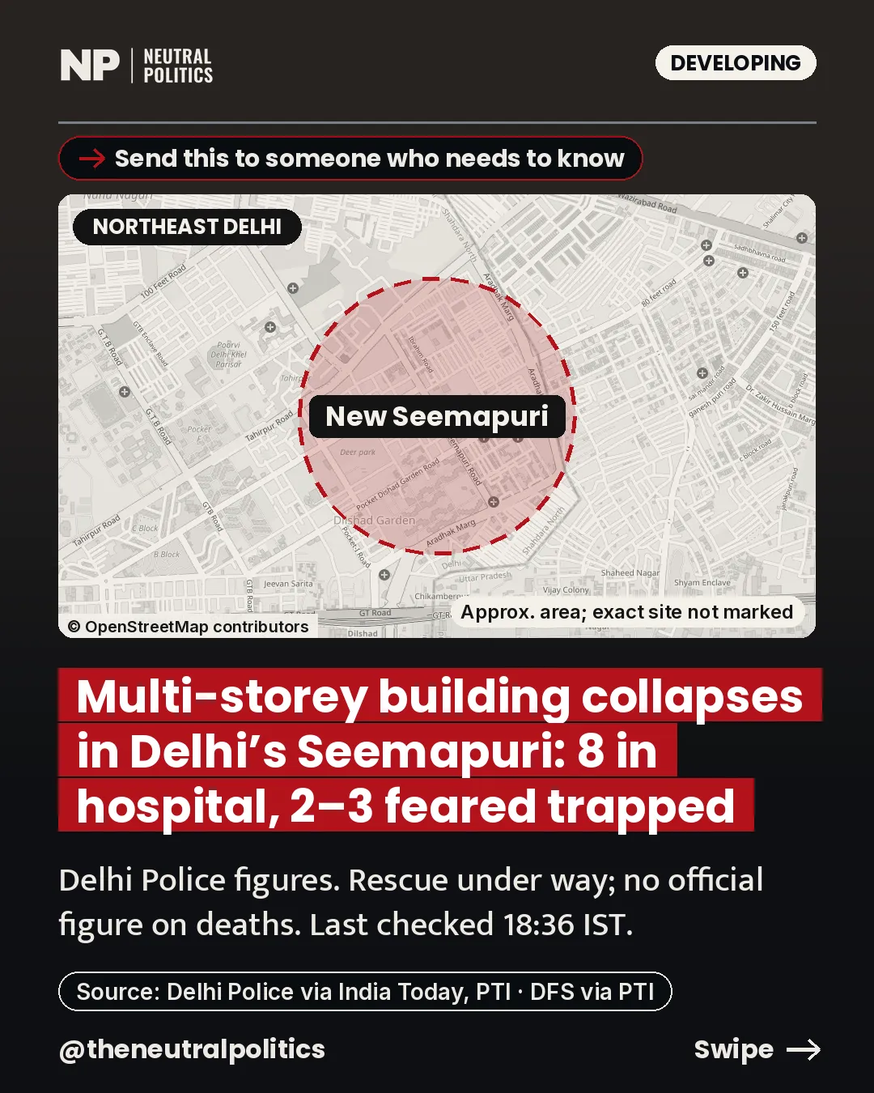
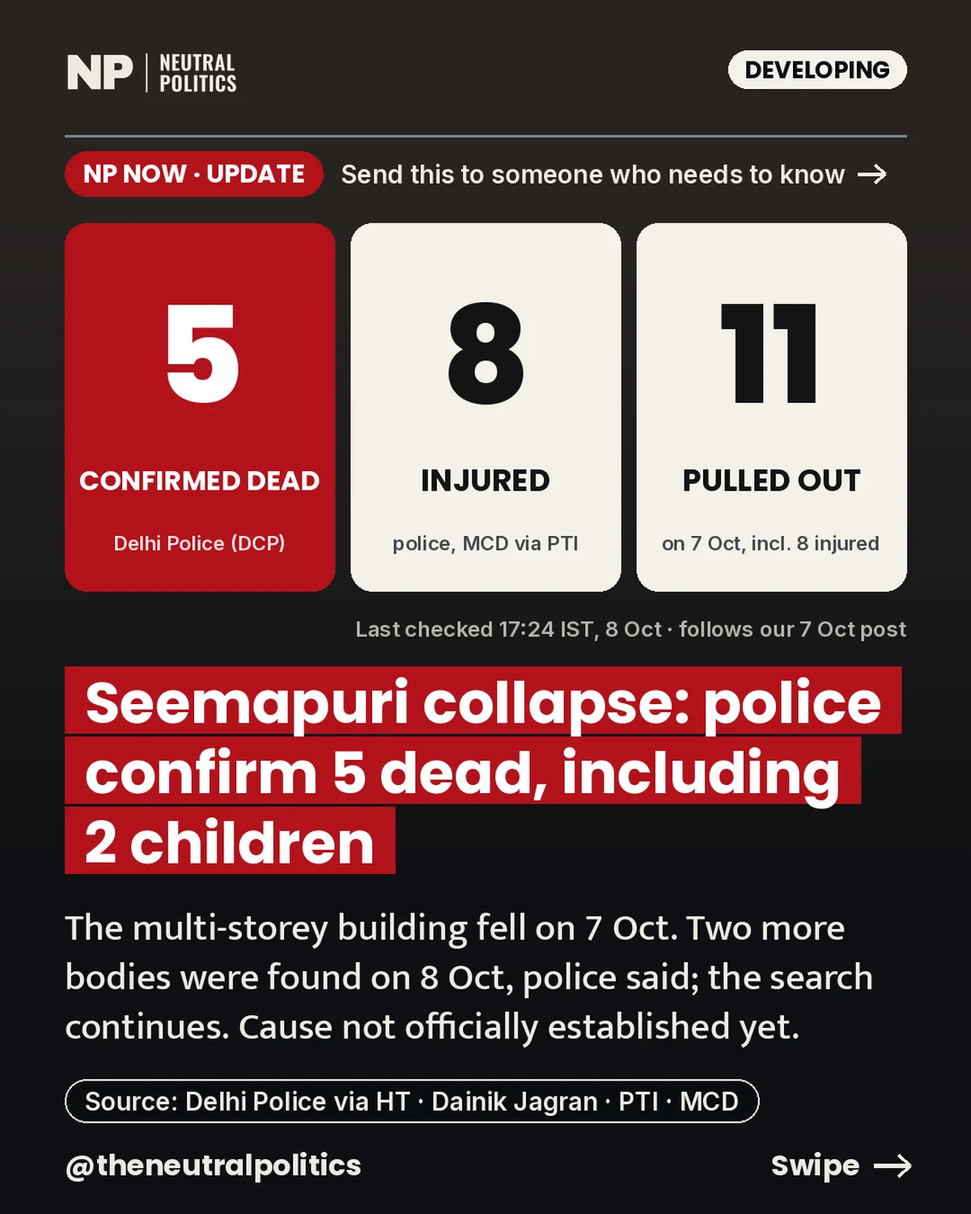
Publish the GST Council note and update the Seemapuri draft.
The 57th meeting story is the new lead. The collapse update stays unpublished, with the new toll attributed to police.

diff --git a/content/news/2026/10/delhi-seemapuri-building-collapse.hi.md b/content/news/2026/10/delhi-seemapuri-building-collapse.hi.md
@@ -1,48 +1,46 @@
 ---
-title: "दिल्ली की सीमापुरी में बहुमंजिला इमारत गिरी: कम से कम 8 अस्पताल में, 2–3 के फँसे होने की आशंका, दिल्ली पुलिस"
-standfirst: "उत्तर-पूर्व दिल्ली की नई सीमापुरी में इदगाह मछली मंडी के पास की इमारत बुधवार दोपहर गिरी। बचाव चल रहा है। मौतों का कोई आधिकारिक आँकड़ा नहीं है।"
+title: "सीमापुरी में इमारत गिरी: पुलिस ने 5 मौतें पक्की कीं, इनमें 2 बच्चे; 8 घायल"
+standfirst: "नई सीमापुरी में इमारत गिरने से मरने वालों की संख्या पाँच हो गई है। 8 अक्टूबर को दो और शव मिले, 60 और 35 साल की महिलाएँ, दिल्ली पुलिस ने कहा। आठ लोग घायल हुए। तलाश जारी है और कारण आधिकारिक रूप से तय नहीं हुआ है।"
 key_facts:
-  - "बुधवार, 7 अक्टूबर 2026 की दोपहर उत्तर-पूर्व दिल्ली की नई सीमापुरी में इदगाह मछली मंडी के पास एक बहुमंजिला आवासीय इमारत गिरी। मंजिलों की संख्या विवादित है, इसलिए यह नोट कोई संख्या नहीं देता।"
-  - "कम से कम आठ लोग अस्पताल में भर्ती हैं: छह पुरुष, एक महिला और एक तीन साल का बच्चा, गुरु तेग बहादुर अस्पताल में। दिल्ली पुलिस के डीसीपी आर.पी. मीना ने यह कहा, इंडिया टुडे के अनुसार शाम 6:29 बजे IST।"
-  - "दो से तीन लोगों के अब भी फँसे होने का संदेह है। डीसीपी ने कहा, \"They are talking... rescue operation is underway,\" पीटीआई के अनुसार करीब शाम 5:40 बजे IST। कुछ लोगों को निकाला गया है। बचाए गए लोगों की आधिकारिक संख्या नहीं है, और किसी मौत का आधिकारिक आँकड़ा नहीं है।"
-  - "दिल्ली फायर सर्विस को कॉल करीब 3:15 बजे थी, इंडिया टुडे के अनुसार फायर सर्विस का हवाला देते हुए, या करीब 3:30 बजे, पीटीआई, एनडीटीवी और टाइम्स ऑफ़ इंडिया के अनुसार।"
-  - "अधिकारियों ने पीटीआई से कहा कि आगे का हिस्सा गिरा और मलबा दो से तीन बगल के मकानों से टकराया। दिल्ली फायर सर्विस, दिल्ली पुलिस, नागरिक अधिकारी और सिविल डिफेंस बचाव कर रहे हैं। खुदाई मशीनें मलबा हटा रही हैं।"
-  - "दिल्ली ट्रैफ़िक पुलिस ने कहा कि सीमापुरी गोल चक्कर, डीएलएफ भोपुरा और आसपास की सड़कों पर यातायात प्रभावित है, और लोगों से क्षेत्र से बचने तथा साइट के पास रुकने, पार्क करने या जमा होने से बचने को कहा।"
-  - "अधिकारियों ने पीटीआई के जरिए कहा कि कारण जाँच के बाद तय होगा। केवल संदर्भ: 6 सितंबर 2026 को सत्य निकेतन में गिरी इमारत में सात लोगों की मौत हुई, दिल्ली फायर सर्विस और पीटीआई के अनुसार, जैसा द न्यू इंडियन एक्सप्रेस ने रिपोर्ट किया।"
+  - "अपडेट, आखिरी जाँच 8 अक्टूबर 2026 को शाम 5:24 बजे IST। डीसीपी (शाहदरा) राजेंद्र प्रसाद मीना ने हिंदुस्तान टाइम्स को रिकॉर्ड पर बताया कि संख्या पाँच है। दो और शव, इमारत में रहने वाली 60 और 35 साल की महिलाओं के, गुरुवार को मिले। उनकी पहचान जारी नहीं हुई। टाइम्स ऑफ़ इंडिया, पीटीआई इनपुट के साथ, और दैनिक जागरण भी अधिकारियों का हवाला देकर पाँच मौतें रिपोर्ट करते हैं।"
+  - "पहले की तीन मौतें दो बच्चों की थीं, करीब 12 साल की एक लड़की और एक नन्हा बच्चा, और एक 21 साल की महिला की जो चार महीने की गर्भवती थीं। डीसीपी ने यह खाता हिंदुस्तान टाइम्स को दिया, और अधिकारियों ने पीटीआई को। किसी का नाम नहीं है।"
+  - "आठ लोग घायल हुए और उन्हें ताहिरपुर के राजीव गांधी सुपर स्पेशलिटी अस्पताल ले जाया गया, पुलिस और एमसीडी, पीटीआई के जरिए। शाम 5:24 बजे IST तक घायलों के इस आँकड़े में आधिकारिक बदलाव नहीं था।"
+  - "7 अक्टूबर को मलबे से 11 लोगों को निकाला गया, उनमें आठ घायल भी, पुलिस और एमसीडी, पीटीआई के जरिए, और द हिंदू। बचाव की कोई नई आधिकारिक संख्या नहीं है।"
+  - "तलाश जारी है। डीसीपी ने हिंदुस्तान टाइम्स को बताया कि मलबा हटाया जा रहा है, यह देखने के लिए कि और लोग फँसे हैं या नहीं। अभी भी फँसे किसी की आधिकारिक संख्या नहीं है।"
+  - "कारण आधिकारिक रूप से तय नहीं हुआ है। इमारत को केवल बहुमंजिला कहा गया है। केवल संदर्भ: 6 सितंबर 2026 को सत्य निकेतन में गिरी इमारत में सात लोगों की मौत हुई, दिल्ली फायर सर्विस और पीटीआई, द न्यू इंडियन एक्सप्रेस के जरिए, और द हिंदू।"
 sides:
-  - label: "अधिकारियों ने क्या कहा"
-    text: "डीसीपी आर.पी. मीना, इंडिया टुडे के जरिए शाम 6:29 बजे: जीटीबी में कम से कम आठ भर्ती, छह पुरुष, एक महिला और एक तीन साल का बच्चा। पीटीआई के जरिए करीब शाम 5:40 बजे: दो से तीन के फँसे होने का संदेह, और कुछ लोग पहले ही निकाले जा चुके। मौत का आधिकारिक आँकड़ा नहीं।"
-  - label: "जो तय नहीं है"
-    text: "मंजिलों की संख्या, फायर सर्विस की कॉल का समय, कम से कम पाँच घायल की पहले की रिपोर्ट, और अस्पताल का पहले का नाम। कारण जाँच का विषय है। यह नोट न कारण बताता है, न दोष।"
+  - label: "अधिकारियों ने क्या पक्का किया है"
+    text: "पाँच मौतें, डीसीपी शाहदरा राजेंद्र प्रसाद मीना के रिकॉर्ड पर बयान से, हिंदुस्तान टाइम्स के जरिए, और अधिकारियों से, टाइम्स ऑफ़ इंडिया पीटीआई के साथ और दैनिक जागरण के जरिए। ताहिरपुर के राजीव गांधी सुपर स्पेशलिटी अस्पताल में आठ घायल। 7 अक्टूबर को 11 निकाले गए। तलाश जारी है। फँसे लोगों की आधिकारिक संख्या नहीं। आधिकारिक कारण नहीं।"
+  - label: "यह नोट क्या इस्तेमाल नहीं करता"
+    text: "सुबह की चार मौतों का आँकड़ा। एक अंग्रेज़ी रिपोर्ट का 11 घायल का आँकड़ा। स्थानीय खाते कि लोग अब भी फँसे हैं। कोई कारण, कोई दोष, और मंजिलों की कोई संख्या।"
 not_confirmed:
-  - "मौत का आधिकारिक आँकड़ा। दिल्ली फायर सर्विस, दिल्ली पुलिस, एनडीआरएफ या जिला प्रशासन ने कोई नहीं दिया है।"
-  - "बचाए गए लोगों की आधिकारिक संख्या। पुलिस कहती है कि कुछ लोगों को निकाला गया। उन्होंने संख्या नहीं दी।"
-  - "मंजिलों की संख्या। माध्यम चार और पाँच मंजिल उद्धृत करते हैं, और एक सुर्खी व मुख्य पाठ अलग हैं। यह नोट बहुमंजिला कहता है।"
-  - "कारण। अधिकारी कहते हैं कि यह जाँच के बाद तय होगा। यह नोट कारण नहीं बताता और दोष नहीं लगाता।"
-  - "कि हर व्यक्ति का इलाज किस अस्पताल में हुआ। बाद वाला डीसीपी खाता, इंडिया टुडे के जरिए, जीटीबी अस्पताल का नाम लेता है। आईएएनएस की पहले की रिपोर्ट ने राजीव गांधी अस्पताल का नाम लिया।"
+  - "8 अक्टूबर को मिली 60 और 35 साल की दो महिलाओं की पहचान। वह जारी नहीं हुई है।"
+  - "अभी भी फँसे किसी की आधिकारिक संख्या। डीसीपी ने कहा तलाश जारी है और मलबा हटाया जा रहा है। 7 अक्टूबर शाम की यह पंक्ति कि दो से तीन के फँसे होने का संदेह था, मौजूदा आधिकारिक संख्या नहीं है। स्थानीय खाते इस्तेमाल नहीं हैं।"
+  - "कारण। अधिकारी कहते हैं कि वह तय नहीं हुआ। यह नोट कारण नहीं बताता और दोष नहीं लगाता।"
+  - "मंजिलों की संख्या। रिपोर्टें अलग हैं। यह नोट बहुमंजिला कहता है।"
+  - "7 अक्टूबर को हर व्यक्ति का इलाज किस अस्पताल में हुआ। यह अपडेट ताहिरपुर के राजीव गांधी सुपर स्पेशलिटी अस्पताल का नाम लेता है, पुलिस और एमसीडी, पीटीआई के जरिए। उस शाम इंडिया टुडे ने डीसीपी को गुरु तेग बहादुर अस्पताल पर उद्धृत किया। आईएएनएस की पहले की रिपोर्ट ने राजीव गांधी अस्पताल का नाम लिया।"
+  - "सुबह की चार मौतों का आँकड़ा, एएनआई, बिज़नेस स्टैंडर्ड और ज़ी की रिपोर्टों में। यह नोट पाँच लेता है, डीसीपी के रिकॉर्ड से। एक अंग्रेज़ी रिपोर्ट का 11 घायल का आँकड़ा इस्तेमाल नहीं है। पुलिस और एमसीडी का आँकड़ा आठ घायल है, 11 निकाले गए लोगों में।"
 translation:
   engine: "cloud-agent"
   status: "machine"
 ---
 
-बुधवार दोपहर, 7 अक्टूबर 2026 को उत्तर-पूर्व दिल्ली की नई सीमापुरी में इदगाह मछली मंडी के पास एक बहुमंजिला आवासीय इमारत गिरी। यह नोट एनपी नाउ है। मुहर विकसित हो रही है। आखिरी जाँच शाम 6:36 बजे IST हुई। यहाँ कोई आँकड़ा तभी है जब स्रोत दिल्ली फायर सर्विस, दिल्ली पुलिस, एनडीआरएफ या जिला प्रशासन हो, और हर आँकड़ा आरोपित है। किसी मौत का आधिकारिक आँकड़ा नहीं है।
+अपडेट, गुरुवार 8 अक्टूबर 2026 को शाम 5:24 बजे IST। पुलिस ने उत्तर-पूर्व दिल्ली की नई सीमापुरी में इदगाह मछली मंडी के पास एक बहुमंजिला इमारत गिरने में पाँच मौतें पक्की की हैं। उप पुलिस आयुक्त (शाहदरा) राजेंद्र प्रसाद मीना ने यह हिंदुस्तान टाइम्स को रिकॉर्ड पर कहा। दो और शव, इमारत में रहने वाली 60 और 35 साल की महिलाओं के, गुरुवार को मिले। उनकी पहचान जारी नहीं हुई है। टाइम्स ऑफ़ इंडिया, पीटीआई इनपुट के साथ, और दैनिक जागरण भी अधिकारियों का हवाला देकर पाँच मौतें रिपोर्ट करते हैं। यह नोट एनपी नाउ है। मुहर विकसित हो रही है। आखिरी जाँच शाम 5:24 बजे IST हुई। यह अपडेट शाम 5:20 बजे IST पोस्ट हुआ।
 
-दिल्ली पुलिस के डीसीपी आर.पी. मीना ने कहा कि कम से कम आठ लोग अस्पताल में भर्ती हैं, इंडिया टुडे के अनुसार शाम 6:29 बजे IST। वे आठ छह पुरुष, एक महिला और एक तीन साल का बच्चा हैं, गुरु तेग बहादुर अस्पताल में, जिसे जीटीबी अस्पताल भी कहा जाता है। उसी दोपहर इससे पहले पीटीआई ने शाम 5:45 बजे और टाइम्स ऑफ़ इंडिया ने शाम 6:27 बजे कम से कम पाँच घायल रिपोर्ट किए। दोनों खाते इस नोट में रहते हैं। बाद वाला पुलिस आँकड़ा, इंडिया टुडे के जरिए, अस्पताल में कम से कम आठ लोग है।
+पाँच में दो बच्चे हैं, करीब 12 साल की एक लड़की और एक नन्हा बच्चा, एक 21 साल की महिला जो चार महीने की गर्भवती थीं, और गुरुवार को मिली दो महिलाएँ। डीसीपी ने यह खाता हिंदुस्तान टाइम्स को दिया, और अधिकारियों ने पीटीआई को। यह नोट किसी का नाम नहीं लेता।
 
-डीसीपी ने कहा कि कुछ लोगों को निकालकर अस्पताल भेजा गया है, और दो से तीन लोगों के मलबे में अब भी फँसे होने का संदेह है। उन्होंने कहा: "They are talking... rescue operation is underway," पीटीआई के अनुसार करीब शाम 5:40 बजे IST। यानी वे बात कर रहे हैं, और बचाव अभियान चल रहा है। कितनों को निकाला गया, इसकी आधिकारिक संख्या नहीं है। किसी मौत का आधिकारिक आँकड़ा नहीं है। रिपोर्टों और स्थानीय खातों में बचाए गए या फँसे लोगों के दूसरे आँकड़े आए हैं। अधिकारियों ने उनकी पुष्टि नहीं की, इसलिए वे यहाँ इस्तेमाल नहीं हैं।
+आठ लोग घायल हुए और उन्हें ताहिरपुर के राजीव गांधी सुपर स्पेशलिटी अस्पताल ले जाया गया। पुलिस और दिल्ली नगर निगम ने कहा कि 7 अक्टूबर को मलबे से 11 लोगों को निकाला गया, और आठ घायल उन्हीं में थे। पीटीआई, जिसे द न्यू इंडियन एक्सप्रेस ने छापा, और द हिंदू यह रिपोर्ट करते हैं। शाम 5:24 बजे IST तक बचाव की कोई नई आधिकारिक संख्या नहीं थी। एक अंग्रेज़ी रिपोर्ट का 11 घायल का आँकड़ा इस्तेमाल नहीं है। यह नोट आठ घायल लेता है, और 7 अक्टूबर को निकाले गए 11 लोग।
 
-दिल्ली फायर सर्विस की कॉल का समय तय नहीं है। इंडिया टुडे, फायर सर्विस का हवाला देते हुए, इसे करीब 3:15 बजे रखता है। पीटीआई, एनडीटीवी और टाइम्स ऑफ़ इंडिया इसे करीब 3:30 बजे रखते हैं। पीटीआई द्वारा उद्धृत अधिकारियों ने कहा कि इमारत का आगे का हिस्सा गिरा और मलबा दो से तीन बगल के मकानों से टकराया। खुदाई मशीनें मलबा हटा रही हैं। दिल्ली फायर सर्विस, दिल्ली पुलिस, नागरिक अधिकारी और सिविल डिफेंस कर्मी तलाश कर रहे हैं।
+तलाश जारी है। डीसीपी ने हिंदुस्तान टाइम्स को बताया कि टीमें मलबा हटा रही हैं, यह देखने के लिए कि और लोग फँसे हैं या नहीं। अभी भी फँसे किसी की आधिकारिक संख्या नहीं है।
 
-मंजिलों की संख्या तय नहीं है, इसलिए यह नोट केवल बहुमंजिला कहता है। डीसीपी को पीटीआई और फ़र्स्टपोस्ट ने चार मंजिल कहते उद्धृत किया है, और टाइम्स ऑफ़ इंडिया ने शाम 6:27 बजे पाँच मंजिल। हिंदुस्तान टाइम्स और एनडीटीवी पाँच कहते हैं। इंडिया टुडे की एक सुर्खी तीन कहती है और उस रिपोर्ट का मुख्य पाठ चार। यह नोट कोई संख्या नहीं चुनता।
+कारण आधिकारिक रूप से तय नहीं हुआ है। टाइम्स ऑफ़ इंडिया, पीटीआई इनपुट के साथ, कहता है कि सटीक कारण अभी पता लगाया जाना है। यह नोट कारण नहीं बताता और दोष नहीं लगाता। यह मंजिलों की संख्या नहीं देता। इमारत को केवल बहुमंजिला कहा गया है।
 
-डीसीपी के बाद वाले खाते के साथ, इंडिया टुडे के जरिए, नाम लिया अस्पताल जीटीबी है। आईएएनएस की पहले की रिपोर्ट, जिसे अमर उजाला ने छापा, राजीव गांधी अस्पताल का नाम लेती है। दोनों आरोपित हैं। जीटीबी के लिए यह नोट बाद वाले पुलिस खाते का अनुसरण करता है। इंडिया टीवी और लाइव हिंदुस्तान ने भी बुधवार दोपहर गिरने की रिपोर्ट की। इस नोट के हताहत आँकड़े उन पन्नों से नहीं लिए गए।
+यह उस नोट की अगली कड़ी है जो 7 अक्टूबर को शाम 6:39 बजे IST पोस्ट हुआ था, जब मौतों का कोई आधिकारिक आँकड़ा नहीं था। उस शाम डीसीपी आर.पी. मीना ने कहा कि कम से कम आठ लोग अस्पताल में थे, छह पुरुष, एक महिला और एक तीन साल का बच्चा, गुरु तेग बहादुर अस्पताल में, इंडिया टुडे ने शाम 6:29 बजे रिपोर्ट किया। उसी दोपहर इससे पहले पीटीआई और टाइम्स ऑफ़ इंडिया ने कम से कम पाँच घायल रिपोर्ट किए। इस अपडेट में घायलों का आँकड़ा आठ है, पुलिस और नागरिक निकाय से, पीटीआई के जरिए, ताहिरपुर के राजीव गांधी सुपर स्पेशलिटी अस्पताल में। 7 अक्टूबर का खाता, इंडिया टुडे के जरिए, जीटीबी अस्पताल का नाम लेता है। आईएएनएस की पहले की रिपोर्ट ने राजीव गांधी अस्पताल का नाम लिया। हिंदुस्तान टाइम्स ने राजीव गांधी अस्पताल परिसर में जीटीबी इमरजेंसी का वर्णन किया। वे खाते अपने स्रोतों के हवाले से रहते हैं।
 
-दिल्ली ट्रैफ़िक पुलिस ने कहा कि सीमापुरी गोल चक्कर, डीएलएफ भोपुरा और आसपास की सड़कों पर यातायात प्रभावित था। उन्होंने लोगों से क्षेत्र से बचने को कहा, और साइट के पास रुकने, वाहन खड़ा करने या जमा होने से बचने को कहा।
+7 अक्टूबर को दिल्ली फायर सर्विस को करीब 3:15 बजे बुलाया गया, इंडिया टुडे सेवा का हवाला देते हुए, या करीब 3:30 बजे, पीटीआई, एनडीटीवी और टाइम्स ऑफ़ इंडिया। अधिकारियों ने पीटीआई से कहा कि इमारत का आगे का हिस्सा गिरा और मलबा दो या तीन बगल के मकानों से टकराया। फायर सर्विस, पुलिस, नागरिक अधिकारी और सिविल डिफेंस ने तलाश की, और खुदाई मशीनों ने मलबा हटाया। दिल्ली ट्रैफ़िक पुलिस ने कहा कि सीमापुरी गोल चक्कर और डीएलएफ भोपुरा के आसपास यातायात प्रभावित था, और लोगों से वहाँ जमा न होने को कहा।
 
-अधिकारियों ने पीटीआई के जरिए कहा कि कारण जाँच के बाद तय होगा। यह नोट कारण नहीं बताता, और दोष नहीं लगाता।
+केवल संदर्भ के लिए, 6 सितंबर 2026 को सत्य निकेतन में एक इमारत गिरने से सात लोगों की मौत हुई, दिल्ली फायर सर्विस और पीटीआई, द न्यू इंडियन एक्सप्रेस के जरिए, और द हिंदू। वह अलग घटना है, करीब एक महीने पहले।
 
-केवल संदर्भ के लिए, और इस बचाव से अलग: 6 सितंबर 2026 को सत्य निकेतन में एक इमारत गिरने से सात लोगों की मौत हुई, दिल्ली फायर सर्विस और पीटीआई के अनुसार, जैसा द न्यू इंडियन एक्सप्रेस ने रिपोर्ट किया। वह बुधवार से करीब एक महीने पहले था। दोनों घटनाएँ एक घटना नहीं मानी गई हैं।
+सुबह की चार मौतों का आँकड़ा, एएनआई, बिज़नेस स्टैंडर्ड और ज़ी की रिपोर्टों में, यहाँ इस्तेमाल नहीं है। यह नोट पाँच लेता है, डीसीपी के रिकॉर्ड से। लोगों के अब भी फँसे होने के स्थानीय खाते इस्तेमाल नहीं हैं।
 
-कवर एनपी का नक्शा कार्ड है, OpenStreetMap टाइलों से, ग्रेस्केल में। घेरा नई सीमापुरी के अनुमानित इलाके को दिखाता है। सटीक स्थान चिह्नित नहीं है। श्रेय: © OpenStreetMap contributors। लोगों की कोई तस्वीर इस्तेमाल नहीं हुई।
-
-शाम 6:36 बजे IST तक बचाव जारी था। अभी भी किसी मौत का आधिकारिक आँकड़ा नहीं है, और कारण तय नहीं हुआ है। यह नोट शाम 6:39 बजे IST पोस्ट हुआ। यह हताहत की संख्या तभी जोड़ता है जब दिल्ली फायर सर्विस, दिल्ली पुलिस, एनडीआरएफ या जिला प्रशासन उसकी पुष्टि करे।
+कवर OpenStreetMap टाइलों से बना एनपी नक्शा है, ग्रेस्केल में। घेरा नई सीमापुरी के अनुमानित इलाके को दिखाता है। सटीक स्थान चिह्नित नहीं है। श्रेय: © OpenStreetMap contributors। किसी व्यक्ति की तस्वीर इस्तेमाल नहीं हुई। यहाँ केवल वही आँकड़ा है जिसकी पुष्टि पुलिस या किसी अन्य अधिकारी ने की है, और हर आँकड़ा स्रोत के हवाले से है।

diff --git a/content/news/2026/10/gst-council-57th-meeting-arrest-powers-prosecution-5-crore.hi.md b/content/news/2026/10/gst-council-57th-meeting-arrest-powers-prosecution-5-crore.hi.md
@@ -1,0 +1,44 @@
+---
+title: "जीएसटी परिषद की 57वीं बैठक: गिरफ्तारी की शक्तियाँ हटाई जाएँगी, अभियोजन केवल ₹5 करोड़ से ऊपर, दरें नहीं बदलीं"
+standfirst: "वित्त मंत्री निर्मला सीतारमण ने 8 अक्टूबर की बैठक के बाद गिरफ्तारी, अभियोजन, नोटिस, रिफंड और पंजीकरण पर प्रक्रिया के बदलाव बताए। उन्होंने कहा कि जीएसटी की कोई दर नहीं बदली। आधिकारिक पीआईबी विज्ञप्ति शाम 5:47 बजे IST तक लंबित थी।"
+key_facts:
+  - "वित्त मंत्री ने कहा कि परिषद ने जीएसटी के तहत गिरफ्तारी की शक्तियाँ हटाने की सिफारिश की, और अभियोजन की सीमा ₹1 करोड़ से ₹5 करोड़ करने की, ताकि ₹5 करोड़ से नीचे अभियोजन न हो।"
+  - "सामान्य जुर्माना ₹25,000 से ₹10,000 किया जाना है। ₹10,000 से कम कर पर मांग का नोटिस नहीं जाएगा, और उस राशि से नीचे लंबित नोटिस वापस लिए जाएँगे। सीबीआईसी ने ये मुकदमेबाज़ी के बिंदु पोस्ट किए।"
+  - "रिफंड की पावती 15 दिन से 10 दिन होती है, और अगर कोई जवाब न आए तो पावती मानी जाएगी। जोखिम जाँच पर व्यवस्था से अपेक्षा है कि वह पावती के तीन कार्यदिवस में 90 प्रतिशत दावे मंजूर करे। नकद खाते की अतिरिक्त रकम का रिफंड अपने आप होना है।"
+  - "पंजीकरण के नियमित बदलाव, जिसमें कारोबार का एक और स्थान भी है, अपने आप माने जाएँगे। सीबीआईसी ने कहा कि ई-कॉमर्स के छोटे विक्रेता, जो महीने में ₹2.5 लाख से कम इनपुट टैक्स क्रेडिट आगे बढ़ाते हैं, दूसरे राज्यों में सरल पैन-आधारित पंजीकरण पाएँगे।"
+  - "पारगमन में माल की जाँच, रोक या ज़ब्ती केवल आपूर्तिकर्ता राज्य या गंतव्य राज्य के अधिकारी कर सकते हैं, और रोक केवल विशिष्ट खुफिया जानकारी पर, संयुक्त आयुक्त स्तर की मंज़ूरी के साथ।"
+  - "नियोक्ता कर्मचारियों के बीमा कवर पर चुकाए जीएसटी का इनपुट टैक्स क्रेडिट ले सकेंगे। वित्त मंत्री ने कहा: \"No rate changes have been made. The rate structure is settled.\" दरों के मुद्दे साल में एक बार लिए जाएँगे।"
+  - "डिलीवरी सेवाओं की दर में कटौती, रीट्रेड ट्रैक्टर टायरों पर 5 प्रतिशत, और सूत्रों का हवाला देती रिपोर्टों के और इनपुट-टैक्स-क्रेडिट मद आधिकारिक रूप से पक्के नहीं हैं। शुरू की तारीखें घोषित नहीं हुईं। लिखित पीआईबी विज्ञप्ति शाम 5:47 बजे IST तक लंबित थी।"
+sides:
+  - label: "वित्त मंत्री और सीबीआईसी ने क्या कहा"
+    text: "सिफारिशें 57वीं बैठक के बाद उनकी प्रेस कॉन्फ्रेंस से हैं, और सीबीआईसी के उन पोस्ट से हैं जो रिफंड, पंजीकरण, छोटे ई-कॉमर्स विक्रेता, नोटिस की सीमा और सामान्य जुर्माना बताते हैं। उन्होंने कहा कि कोई दर नहीं बदली।"
+  - label: "जो अभी निर्णय नहीं है"
+    text: "सूत्रों का हवाला देती रिपोर्टों ने, जिनमें ईटी नाउ और ज़ी बिज़नेस हैं, डिलीवरी सेवाओं की दर में कटौती, रीट्रेड ट्रैक्टर टायरों पर 5 प्रतिशत, और और इनपुट-टैक्स-क्रेडिट मदों की बात की। वे आधिकारिक रूप से पक्के नहीं हैं। शुरू की तारीखें घोषित नहीं हुईं, और लिखित पीआईबी विज्ञप्ति शाम 5:47 बजे IST तक नहीं आई थी।"
+not_confirmed:
+  - "कि निर्णयों की लिखित प्रेस सूचना ब्यूरो विज्ञप्ति आ चुकी थी। वह 8 अक्टूबर 2026 को शाम 5:47 बजे IST तक लंबित थी। पीआईबी ने प्रेस कॉन्फ्रेंस का लाइव वीडियो चलाया था।"
+  - "किसी बदलाव की शुरूआत की तारीख। कोई घोषित नहीं हुई।"
+  - "डिलीवरी सेवाओं पर जीएसटी में कटौती, रीट्रेड ट्रैक्टर टायरों पर 5 प्रतिशत की दर, और सूत्रों का हवाला देती रिपोर्टों में बताई और इनपुट-टैक्स-क्रेडिट मदें। ये आधिकारिक रूप से पक्के नहीं हैं, और यह नोट उन्हें निर्णय नहीं मानता।"
+translation:
+  engine: "cloud-agent"
+  status: "machine"
+---
+
+जीएसटी परिषद की 57वीं बैठक गुरुवार, 8 अक्टूबर 2026 को नई दिल्ली के भारत मंडपम में हुई। केंद्रीय वित्त मंत्री निर्मला सीतारमण ने अध्यक्षता की, राज्यों और केंद्र शासित प्रदेशों के मुख्यमंत्रियों और वित्त मंत्रियों के साथ। यह नोट एनपी नाउ है। मुहर विकसित हो रही है। आखिरी जाँच शाम 5:47 बजे IST हुई और पोस्ट शाम 6:21 बजे IST हुआ।
+
+बैठक के बाद उन्होंने प्रेस कॉन्फ्रेंस में परिषद की सिफारिशें बताईं। वित्त मंत्रालय ने कहा कि ब्रीफिंग लाइव थी। प्रेस सूचना ब्यूरो ने उसका लाइव वीडियो चलाया। निर्णयों की लिखित पीआईबी विज्ञप्ति शाम 5:47 बजे IST तक नहीं आई थी। शुरू की तारीखें घोषित नहीं हुई हैं। आगे जो है वह उस प्रेस कॉन्फ्रेंस से है, और केंद्रीय अप्रत्यक्ष कर और सीमा शुल्क बोर्ड के पोस्ट से।
+
+प्रवर्तन पर वित्त मंत्री ने कहा कि परिषद ने जीएसटी के तहत गिरफ्तारी की शक्तियाँ हटाने की सिफारिश की। अभियोजन की सीमा ₹1 करोड़ से ₹5 करोड़ होती है, ताकि ₹5 करोड़ से नीचे अभियोजन न हो। एएनआई, आईएएनएस और पीटीआई ने ब्रीफिंग की ये पंक्तियाँ दीं। सामान्य जुर्माना ₹25,000 से ₹10,000 किया जाना है। ₹10,000 से कम कर पर मांग का नोटिस नहीं जाएगा, और उस राशि से नीचे के लंबित नोटिस वापस लिए जाएँगे। परिषद ने नोटिस और कार्यवाही के साझे मानक की भी सिफारिश की। सीबीआईसी ने नोटिस की सीमा और सामान्य जुर्माना पोस्ट किया।
+
+रिफंड पर पावती 15 दिन से 10 दिन होती है, और अगर कोई जवाब न जारी हो तो पावती मानी जाएगी। जोखिम आकलन पर व्यवस्था से अपेक्षा है कि वह पावती के तीन कार्यदिवस के अंदर 90 प्रतिशत दावे मंजूर करे। नकद खाते में अतिरिक्त शेष का रिफंड अपने आप होगा, उन्होंने कहा। सीबीआईसी ने रिफंड के बदलाव पोस्ट किए। पीटीआई ने छोटी पावती अवधि और बीमा क्रेडिट की रिपोर्ट की।
+
+पंजीकरण के नियमित बदलाव, जिसमें कारोबार का एक और स्थान भी है, अपने आप माने जाएँगे। सीबीआईसी ने कहा कि ई-कॉमर्स मंचों के छोटे विक्रेता, जो महीने में ₹2.5 लाख से कम इनपुट टैक्स क्रेडिट आगे बढ़ाते हैं, अपने गृह राज्य से अलग राज्यों में सरल पैन-आधारित पंजीकरण पाएँगे।
+
+पारगमन में माल की जाँच, रोक या ज़ब्ती केवल आपूर्तिकर्ता के राज्य या गंतव्य राज्य के अधिकारी कर सकते हैं। उसे केवल विशिष्ट खुफिया जानकारी पर रोका जा सकता है, और केवल कम से कम संयुक्त आयुक्त स्तर के अधिकारी की मंज़ूरी से। एएनआई और आईएएनएस ने ब्रीफिंग का यह हिस्सा दिया।
+
+नियोक्ता कर्मचारी के बीमा कवर पर चुकाए गए जीएसटी का इनपुट टैक्स क्रेडिट ले सकेंगे। वित्त मंत्री ने यह कहा, और पीटीआई ने रिपोर्ट किया।
+
+दरों पर उन्होंने कहा: "No rate changes have been made. The rate structure is settled." यानी कोई दर नहीं बदली गई है। दरों की संरचना तय है। दरों के मुद्दे साल में एक बार लिए जाएँगे, एक ऐसी बैठक में जो इसके लिए रखी जाए। पीटीआई ने ये वाक्य रिपोर्ट किए।
+
+सूत्रों का हवाला देती रिपोर्टों ने, जिनमें ईटी नाउ और ज़ी बिज़नेस हैं, कहा कि परिषद डिलीवरी सेवाओं पर जीएसटी काट सकती है और रीट्रेड ट्रैक्टर टायरों पर 5 प्रतिशत की दर रख सकती है। उन्होंने और इनपुट-टैक्स-क्रेडिट मदों का भी ज़िक्र किया। इसमें से कुछ भी आधिकारिक रूप से पक्का नहीं है। यह नोट उन रिपोर्टों को निर्णय नहीं मानता।
+
+जब तक लिखित पीआईबी विज्ञप्ति न आए, और जब तक शुरू की तारीखें न घोषित हों, मुहर विकसित हो रही है। कवर स्टेटस टाइलों का एनपी ग्राफ़िक है। किसी व्यक्ति की तस्वीर इस्तेमाल नहीं हुई।

diff --git a/content/news/2026/10/delhi-seemapuri-building-collapse.en.md b/content/news/2026/10/delhi-seemapuri-building-collapse.en.md
@@ -1,45 +1,43 @@
 ---
-title: "Multi-storey building collapses in Delhi's Seemapuri: at least 8 in hospital, 2–3 feared trapped, Delhi Police say"
-standfirst: "The building near Idgah Machhli Mandi in New Seemapuri, northeast Delhi, came down on Wednesday afternoon. Rescue is under way; there is no official figure on deaths."
+title: "Seemapuri building collapse: police confirm 5 dead, including 2 children; 8 injured"
+standfirst: "The toll in the New Seemapuri building collapse has risen to five after two more bodies, women aged 60 and 35, were recovered on 8 October, Delhi Police said. Eight people were injured. The search continues and the cause has not been officially established."
 key_facts:
-  - "A multi-storey residential building collapsed near Idgah Machhli Mandi, New Seemapuri, northeast Delhi, on the afternoon of Wednesday, 7 October 2026. The floor count is disputed, so this note does not give one."
-  - "At least eight people have been hospitalised: six men, a woman and a three-year-old child, at Guru Tegh Bahadur Hospital. Delhi Police DCP R.P. Meena said this, according to India Today at 6:29 pm IST."
-  - "Two to three people are suspected still trapped. \"They are talking... rescue operation is underway,\" the DCP said, according to PTI at about 5:40 pm IST. Some people have been rescued. There is no official rescued count and no official death figure."
-  - "The Delhi Fire Service call was about 3:15 pm according to India Today, citing the fire service, or about 3:30 pm according to PTI, NDTV and The Times of India."
-  - "Officials told PTI the front portion collapsed and debris hit two to three adjoining houses. The Delhi Fire Service, Delhi Police, civic officials and civil defence are rescuing. Excavators are clearing rubble."
-  - "Delhi Traffic Police said traffic was affected around Seemapuri Gol Chakkar, DLF Bhopura and adjoining roads, and asked people to avoid the area and not to stop, park or gather near the site."
-  - "Officials said, via PTI, that the cause will be established after an investigation. For context only: a Satya Niketan collapse on 6 September 2026 killed seven, according to the Delhi Fire Service and PTI via The New Indian Express."
+  - "Update, last checked at 5:24 pm IST on 8 October 2026. DCP (Shahdara) Rajendra Prasad Meena told Hindustan Times on record that the toll is five. Two more bodies, of women aged 60 and 35 who lived in the building, were recovered on Thursday. Their identities have not been released. The Times of India with PTI inputs, and Dainik Jagran, also report five deaths, citing officials."
+  - "The earlier three were two children, a girl of about 12 and a toddler, and a 21-year-old woman who was four months pregnant. The DCP gave that account to Hindustan Times, and officials to PTI. No one is named."
+  - "Eight people were injured and taken to Rajiv Gandhi Super Speciality Hospital, Tahirpur, police and the MCD via PTI. That injured figure had not officially changed as of 5:24 pm IST."
+  - "Eleven people were pulled from the debris on 7 October, the eight injured among them, police and the MCD via PTI, and The Hindu. There is no newer official rescue count."
+  - "The search continues. The DCP told Hindustan Times that debris is being cleared to see whether more victims are trapped. There is no official count of anyone still trapped."
+  - "The cause has not been officially established. The building is described only as multi-storey. For context only: a Satya Niketan collapse on 6 September 2026 killed seven, the Delhi Fire Service and PTI via The New Indian Express, and The Hindu."
 sides:
-  - label: "What officials have said"
-    text: "DCP R.P. Meena, via India Today at 6:29 pm: at least eight in hospital at GTB, six men, a woman and a three-year-old child. Via PTI at about 5:40 pm: two to three suspected still trapped, and some people already rescued. No official death figure."
-  - label: "What is not settled"
-    text: "Floor count, the fire-service call time, an earlier report of at least five injured, and an earlier hospital name. The cause is for investigation. This note states no cause and no blame."
+  - label: "What officials have confirmed"
+    text: "Five dead, from DCP Shahdara Rajendra Prasad Meena on record via Hindustan Times, and from officials via The Times of India with PTI and via Dainik Jagran. Eight injured at Rajiv Gandhi Super Speciality Hospital, Tahirpur. Eleven pulled out on 7 October. The search continues. No official trapped count. No official cause."
+  - label: "What this note does not use"
+    text: "A morning toll of four. A figure of 11 injured in one English report. Local accounts of people still trapped. Any cause, any blame, and any floor count."
 not_confirmed:
-  - "An official death figure. None has been given by the Delhi Fire Service, Delhi Police, the NDRF or the district administration."
-  - "An official count of people rescued. Police say some people were rescued. They have not given a number."
-  - "A floor count. Outlets quote four storeys and five storeys, and one headline and body differ. This note says multi-storey."
-  - "A cause. Officials say it will be established after investigation. This note does not state a cause and does not assign blame."
-  - "Which hospital treated everyone. The later DCP account, via India Today, names GTB Hospital. An earlier IANS report named Rajiv Gandhi Hospital."
+  - "The identities of the two women, aged 60 and 35, recovered on 8 October. They have not been released."
+  - "An official count of anyone still trapped. The DCP said the search continues and debris is being cleared. A 7 October evening line that two to three were suspected still trapped is not a current official count. Local accounts are not used."
+  - "A cause. Officials say it has not been established. This note states no cause and assigns no blame."
+  - "A floor count. Reports differ. This note says multi-storey."
+  - "Which hospital treated everyone on 7 October. This update uses Rajiv Gandhi Super Speciality Hospital, Tahirpur, from police and the MCD via PTI. That evening India Today quoted the DCP on Guru Tegh Bahadur Hospital. An earlier IANS report named Rajiv Gandhi Hospital."
+  - "A morning toll of four, in reports from ANI, Business Standard and Zee. This note uses five, from the DCP on record. One English report's figure of 11 injured is not used; the police and MCD figure is eight injured among 11 pulled out."
 ---
 
-On Wednesday afternoon, 7 October 2026, a multi-storey residential building collapsed near Idgah Machhli Mandi, the fish market, in New Seemapuri, northeast Delhi. This note is NP NOW. The stamp is developing. It was last checked at 6:36 pm IST. A figure is used here only when the Delhi Fire Service, Delhi Police, the NDRF or the district administration is the source, and each figure is attributed. There is no official figure on deaths.
+Update, 5:24 pm IST on Thursday, 8 October 2026. Police have confirmed five deaths in the collapse of a multi-storey building near Idgah Machhli Mandi in New Seemapuri, northeast Delhi. Deputy Commissioner of Police (Shahdara) Rajendra Prasad Meena said so on record to Hindustan Times. Two more bodies, of women aged 60 and 35 who lived in the building, were recovered on Thursday. Their identities have not been released. The Times of India, with PTI inputs, and Dainik Jagran also report five deaths, citing officials. This note is NP NOW. The stamp is developing. It was last checked at 5:24 pm IST. This update was posted at 5:20 pm IST.
 
-Delhi Police DCP R.P. Meena said at least eight people have been hospitalised, according to India Today at 6:29 pm IST. Those eight are six men, a woman and a three-year-old child, at Guru Tegh Bahadur Hospital, also called GTB Hospital. Earlier the same afternoon, PTI at 5:45 pm and The Times of India at 6:27 pm reported at least five injured. Both accounts stay in this note. The later police figure, via India Today, is at least eight people in hospital.
+The five are two children, a girl of about 12 and a toddler, a 21-year-old woman who was four months pregnant, and the two women recovered on Thursday. The DCP gave that account to Hindustan Times, and officials gave it to PTI. This note does not name anyone.
 
-The DCP said some people had been rescued and sent to hospitals, and that two to three were suspected to be still trapped under the debris. "They are talking... rescue operation is underway," he said, according to PTI at about 5:40 pm IST. There is no official count of how many have been rescued. There is no official death figure. Other rescued or trapped figures have appeared in reports and in local accounts. Officials have not confirmed them, so they are not used here.
+Eight people were injured and taken to Rajiv Gandhi Super Speciality Hospital at Tahirpur. Police and the Municipal Corporation of Delhi said 11 people were pulled from the debris on 7 October, and that the eight injured were among them. PTI, carried by The New Indian Express, and The Hindu report that. As of 5:24 pm IST there was no newer official rescue count. One English report's figure of 11 injured is not used. This note uses eight injured, and 11 people pulled out on 7 October.
 
-The time of the Delhi Fire Service call is not settled. India Today, citing the fire service, puts it at about 3:15 pm. PTI, NDTV and The Times of India put it at about 3:30 pm. Officials quoted by PTI said the front portion of the building gave way and debris hit two to three adjoining houses. Excavators are clearing the rubble. The Delhi Fire Service, Delhi Police, civic officials and civil defence personnel are carrying out the search.
+The search continues. The DCP told Hindustan Times that teams are clearing debris to see whether more victims are trapped. There is no official count of anyone still trapped.
 
-The number of floors is not settled, so this note says only multi-storey. The DCP is quoted as saying four storeys by PTI and by Firstpost, and five storeys by The Times of India at 6:27 pm. Hindustan Times and NDTV say five. An India Today headline says three and the body of that report says four. This note does not pick a number.
+The cause has not been officially established. The Times of India, with PTI inputs, says the exact cause is yet to be ascertained. This note states no cause and assigns no blame. It gives no floor count. The building is described only as multi-storey.
 
-The hospital named with the DCP's later account, via India Today, is GTB Hospital. An earlier IANS report, carried by Amar Ujala, named Rajiv Gandhi Hospital. Both are attributed. This note follows the later police account for GTB. India TV and Live Hindustan also reported the collapse on Wednesday afternoon. Casualty figures in this note are not taken from those pages.
+This follows the note posted at 6:39 pm IST on 7 October, when there was no official figure on deaths. That evening DCP R.P. Meena said at least eight people were in hospital, six men, a woman and a three-year-old, at Guru Tegh Bahadur Hospital, India Today reported at 6:29 pm. Earlier that afternoon PTI and The Times of India reported at least five injured. The injured figure in this update is eight, from police and the civic body via PTI, at Rajiv Gandhi Super Speciality Hospital, Tahirpur. The 7 October account via India Today named GTB Hospital. An earlier IANS report named Rajiv Gandhi Hospital. Hindustan Times described a GTB emergency on the Rajiv Gandhi Hospital campus. Those accounts stay attributed.
 
-Delhi Traffic Police said traffic was affected around Seemapuri Gol Chakkar, DLF Bhopura and adjoining roads. They asked people to avoid the area, and not to stop, park or gather near the site.
+On 7 October the Delhi Fire Service was called at about 3:15 pm, India Today citing the service, or about 3:30 pm, PTI, NDTV and The Times of India. Officials told PTI the front of the building fell and debris hit two or three adjoining houses. The fire service, police, civic officials and civil defence searched, and excavators cleared rubble. Delhi Traffic Police said traffic was affected around Seemapuri Gol Chakkar and DLF Bhopura, and asked people not to gather there.
 
-Officials said, via PTI, that the cause will be established after an investigation. This note does not state a cause, and it does not assign blame.
+For context only, a collapse in Satya Niketan on 6 September 2026 killed seven people, the Delhi Fire Service and PTI via The New Indian Express, and The Hindu. It is a separate incident, about a month earlier.
 
-For context only, and separate from this rescue: a building collapse in Satya Niketan on 6 September 2026 killed seven people, according to the Delhi Fire Service and PTI, as The New Indian Express reported. That was about a month before Wednesday. The two collapses are not treated as one incident.
+A morning toll of four, in reports from ANI, Business Standard and Zee, is not the figure used here. This note uses five, from the DCP on the record. Local accounts of people still trapped are not used.
 
-The cover is an NP map card made from OpenStreetMap tiles, in greyscale. The circle marks the approximate New Seemapuri area. The exact site is not marked. Credit: © OpenStreetMap contributors. No photograph of people is used.
-
-As of 6:36 pm IST the rescue was still under way. There is still no official death figure, and the cause has not been established. This note was posted at 6:39 pm IST. It adds a casualty number only when the Delhi Fire Service, Delhi Police, the NDRF or the district administration confirms it.
+The cover is an NP map from OpenStreetMap tiles, in greyscale. The circle marks the approximate New Seemapuri area. The exact site is not marked. Credit: © OpenStreetMap contributors. No photograph of a person is used. Only a figure confirmed by police or another official is used here, and each figure is attributed.

diff --git a/content/news/2026/10/gst-council-57th-meeting-arrest-powers-prosecution-5-crore.en.md b/content/news/2026/10/gst-council-57th-meeting-arrest-powers-prosecution-5-crore.en.md
@@ -1,0 +1,41 @@
+---
+title: "GST Council's 57th meeting: arrest powers to be removed, prosecution only above ₹5 crore, rates unchanged"
+standfirst: "Finance Minister Nirmala Sitharaman announced process changes on arrests, prosecution, notices, refunds and registration after the Council met on 8 October; she said no GST rates were changed. The official PIB release was pending at 5:47 pm IST."
+key_facts:
+  - "The Finance Minister said the Council recommended removing arrest powers under GST, and raising the prosecution threshold from ₹1 crore to ₹5 crore, so there would be no prosecution below ₹5 crore."
+  - "The general penalty is to be reduced from ₹25,000 to ₹10,000. No demand notice will be issued for tax below ₹10,000, and pending notices below that amount are to be withdrawn. CBIC posted those litigation points."
+  - "Refund acknowledgement comes down from 15 days to 10, with deemed acknowledgement if no response is issued. On a risk check, the system is expected to sanction 90 percent of claims within three working days. Excess cash-ledger refunds are to become automatic."
+  - "Routine registration changes, including an additional place of business, are to be accepted automatically. CBIC said small e-commerce sellers passing on input tax credit under ₹2.5 lakh a month will get a simpler PAN-based registration in other states."
+  - "Goods in transit may be inspected, detained or seized only by officers of the supplier state or the destination state, and intercepted only on specific intelligence with joint commissioner-level approval."
+  - "Employers will be able to claim input tax credit on GST paid for employees' insurance cover. The Finance Minister said: \"No rate changes have been made. The rate structure is settled.\" Rate matters will be taken up once a year."
+  - "A delivery-services rate cut, a 5 percent rate on retreaded tractor tyres, and further input-tax-credit items in reports citing sources are not officially confirmed. Start dates were not announced. The written PIB release was pending at 5:47 pm IST."
+sides:
+  - label: "What the Finance Minister and CBIC have said"
+    text: "The recommendations come from her press conference after the 57th meeting, and from CBIC posts on refunds, registration, small e-commerce sellers, the notice threshold and the general penalty. She said no rates were changed."
+  - label: "What is not a decision yet"
+    text: "Reports citing sources, including ET Now and Zee Business, spoke of a delivery-services rate cut, 5 percent on retreaded tractor tyres, and further input-tax-credit items. Those are not officially confirmed. Start dates have not been announced, and the written PIB release was not out at 5:47 pm IST."
+not_confirmed:
+  - "That a written Press Information Bureau release of the decisions was out. It was pending at 5:47 pm IST on 8 October 2026. PIB had carried a live video of the press conference."
+  - "A start date for any of the changes. None was announced."
+  - "A cut in GST on delivery services, a 5 percent rate on retreaded tractor tyres, and further input-tax-credit items mentioned in reports citing sources. Those are not officially confirmed, and this note does not treat them as decisions."
+---
+
+The GST Council held its 57th meeting on Thursday, 8 October 2026, at Bharat Mandapam in New Delhi. Union Finance Minister Nirmala Sitharaman chaired it, with Chief Ministers and Finance Ministers of the states and union territories. This note is NP NOW. The stamp is developing. It was last checked at 5:47 pm IST and posted at 6:21 pm IST.
+
+After the meeting she announced the Council's recommendations at a press conference. The Ministry of Finance said the briefing was live. The Press Information Bureau carried a live video of it. A written PIB release of the decisions was not out at 5:47 pm IST. Start dates have not been announced. What follows is attributed to that press conference, and to posts by the Central Board of Indirect Taxes and Customs.
+
+On enforcement, the Finance Minister said the Council recommended removing arrest powers under GST. The threshold for prosecution rises from ₹1 crore to ₹5 crore, so there would be no prosecution below ₹5 crore. ANI, IANS and PTI carried those lines from the briefing. The general penalty is to be cut from ₹25,000 to ₹10,000. No demand notice will be issued for tax below ₹10,000, and pending notices below that amount are to be withdrawn. The Council also recommended common standards for notices and proceedings. CBIC posted the notice threshold and the general penalty.
+
+On refunds, acknowledgement comes down from 15 days to 10, with deemed acknowledgement if no response is issued. On a risk assessment, the system is expected to sanction 90 percent of claims within three working days of acknowledgement. Refunds of excess balances in the cash ledger will become automatic, she said. CBIC posted the refund changes. PTI reported the shorter acknowledgement period and the insurance credit.
+
+Routine changes to a registration, including an additional place of business, will be accepted automatically. CBIC said small sellers on e-commerce platforms who pass on input tax credit of under ₹2.5 lakh a month will get a simpler PAN-based registration in states other than their home state.
+
+Goods in transit may be inspected, detained or seized only by officers of the supplier's state or the destination state. They may be intercepted only on specific intelligence, and only with the approval of an officer of at least joint commissioner rank. ANI and IANS carried that part of the briefing.
+
+Employers will be able to claim input tax credit on GST paid for an employee's insurance cover. The Finance Minister said this, and PTI reported it.
+
+On rates she said: "No rate changes have been made. The rate structure is settled." Rate matters will be taken up once a year, at one meeting set aside for them. PTI reported those sentences.
+
+Reports citing sources, including ET Now and Zee Business, said the Council could cut GST on delivery services and set a 5 percent rate on retreaded tractor tyres. They also referred to further input-tax-credit items. None of that is officially confirmed. This note does not treat those reports as decisions.
+
+Until a written PIB release is out, and until start dates are announced, the stamp stays developing. The cover is an NP graphic of status tiles. No photograph of a person is used.
